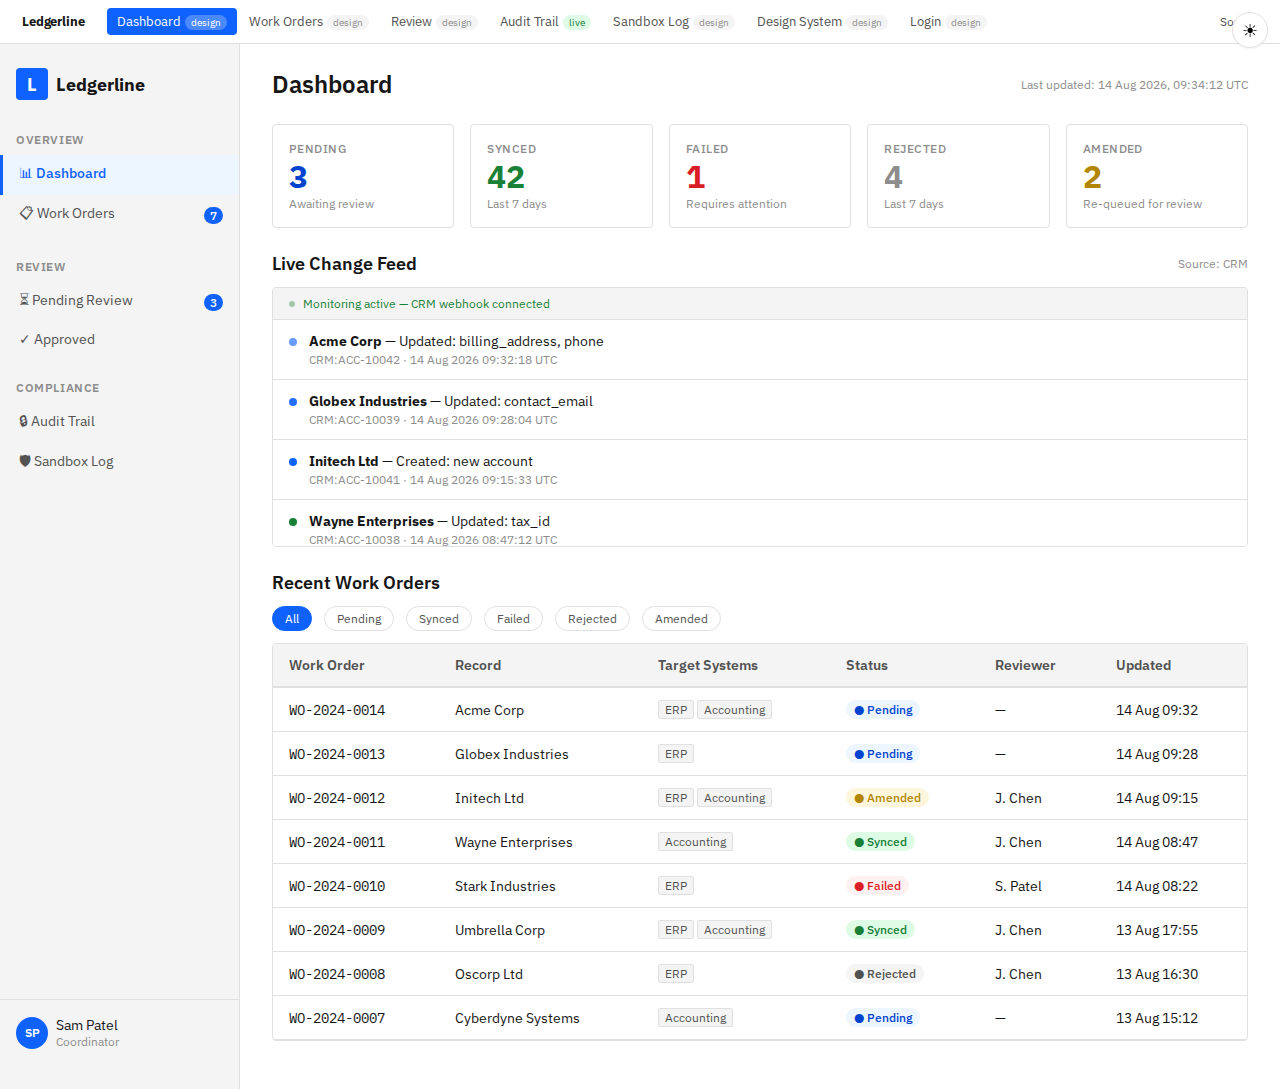
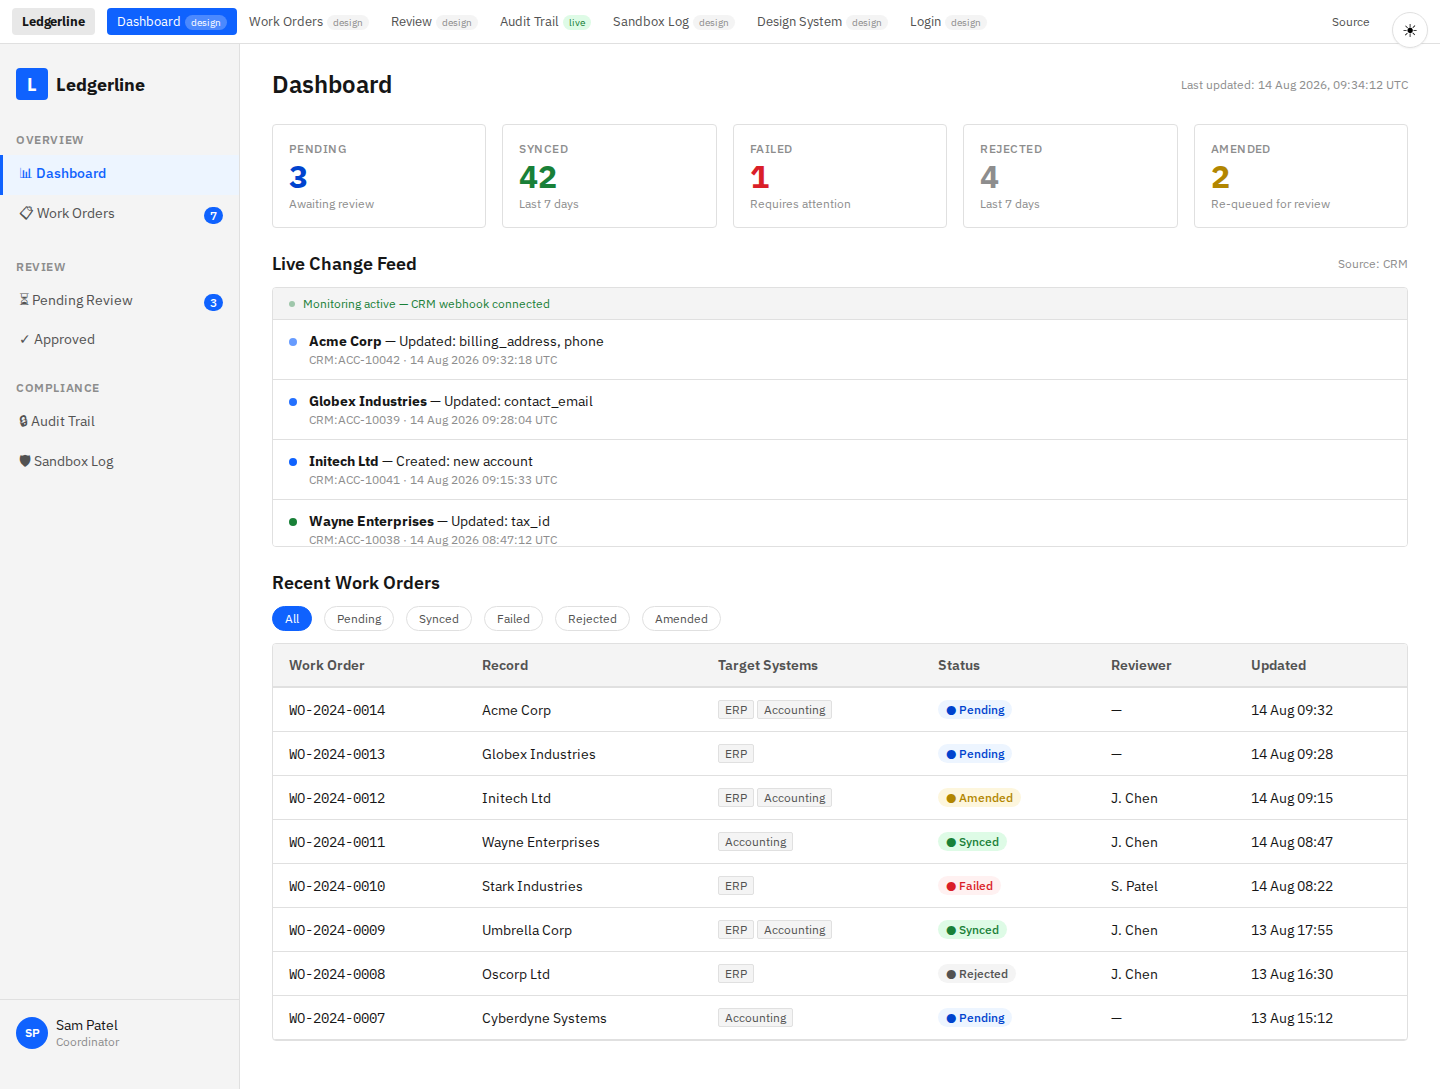
fix(ui): wire the sidebar too, not just the header strip (#7)
The header strip shipped wired; the dashboard's own AppLayout sidebar did not,
so its six items were inert. They are <button class="nav-item" data-page="…">,
not anchors, which is why the earlier href rewrite missed them entirely — they
need a click binding.

wire_ui.py now binds any .nav-item[data-page] it finds, marks the current page
active, and injects at end of body so the DOM it queries exists. Guarded by its
own marker pair, so re-runs replace rather than stack. Pending Review and
Approved both land on the work-orders list — they are that list filtered, which
the mockup cannot express.

Only dashboard.html carries a sidebar today; the binding is generic so a
regenerated screen with one is covered.

ui_e2e.py now checks both navigations at both viewports. This shipped broken
once, which is the argument for it being a test rather than a look.

25 browser checks green, 0 console errors, 0 failed requests.

diff --git a/ui/dashboard.html b/ui/dashboard.html
@@ -252,5 +252,27 @@ background:var(--color-surface,#f4f4f4);color:var(--color-text-muted,#8d8d8d)}
   });
 })();
 </script>
-</body>
+<!-- ledgerline:sidebar -->
+<script>
+(function(){
+  var MAP = {
+    dashboard: 'dashboard.html',
+    workorders: 'work-orders-list.html',
+    pending: 'work-orders-list.html',
+    approved: 'work-orders-list.html',
+    audit: 'audit-trail.html',
+    sandbox: 'sandbox-execution-log.html'
+  };
+  var here = location.pathname.split('/').pop();
+  if (!here || here === 'index.html') here = 'dashboard.html';
+  Array.prototype.forEach.call(document.querySelectorAll('.nav-item[data-page]'), function(btn){
+    var target = MAP[btn.getAttribute('data-page')];
+    if (!target) return;
+    btn.style.cursor = 'pointer';
+    if (target === here) btn.classList.add('active');
+    btn.addEventListener('click', function(){ location.href = target; });
+  });
+})();
+</script>
+<!-- /ledgerline:sidebar --></body>
 </html>

diff --git a/scripts/wire_ui.py b/scripts/wire_ui.py
@@ -20,6 +20,8 @@ UI = ROOT / "ui"
 
 MARK_OPEN = "<!-- ledgerline:nav -->"
 MARK_CLOSE = "<!-- /ledgerline:nav -->"
+SB_OPEN = "<!-- ledgerline:sidebar -->"
+SB_CLOSE = "<!-- /ledgerline:sidebar -->"
 
 # Order is the reviewer's path through the product, not alphabetical.
 NAV = [
@@ -38,6 +40,35 @@ BREADCRUMBS = {
     ">Work Orders<": "work-orders-list.html",
     ">Audit Trail<": "audit-trail.html",
 }
+
+# The AppLayout sidebar is <button class="nav-item" data-page="…">, not anchors, so it
+# needs a click binding rather than an href rewrite. Only dashboard.html carries one
+# today; this runs wherever the pattern appears, so a regenerated screen with a sidebar
+# gets wired too. "Pending Review" and "Approved" are the same list filtered, which the
+# list mockup cannot express — both land on the list.
+SIDEBAR_SCRIPT = """
+<script>
+(function(){
+  var MAP = {
+    dashboard: 'dashboard.html',
+    workorders: 'work-orders-list.html',
+    pending: 'work-orders-list.html',
+    approved: 'work-orders-list.html',
+    audit: 'audit-trail.html',
+    sandbox: 'sandbox-execution-log.html'
+  };
+  var here = location.pathname.split('/').pop();
+  if (!here || here === 'index.html') here = 'dashboard.html';
+  Array.prototype.forEach.call(document.querySelectorAll('.nav-item[data-page]'), function(btn){
+    var target = MAP[btn.getAttribute('data-page')];
+    if (!target) return;
+    btn.style.cursor = 'pointer';
+    if (target === here) btn.classList.add('active');
+    btn.addEventListener('click', function(){ location.href = target; });
+  });
+})();
+</script>
+"""
 
 CSS = """
 <style>
@@ -83,9 +114,10 @@ def nav_html(current: str) -> str:
 def wire(path: pathlib.Path) -> str:
     html = path.read_text()
 
-    # Drop a previously injected strip so re-runs replace rather than stack.
-    html = re.sub(re.escape(MARK_OPEN) + ".*?" + re.escape(MARK_CLOSE), "", html,
-                  flags=re.DOTALL)
+    # Drop previously injected blocks so re-runs replace rather than stack.
+    for open_, close in ((MARK_OPEN, MARK_CLOSE), (SB_OPEN, SB_CLOSE)):
+        html = re.sub(re.escape(open_) + ".*?" + re.escape(close), "", html,
+                      flags=re.DOTALL)
 
     strip = nav_html(path.name)
     if "<body" in html:
@@ -97,6 +129,10 @@ def wire(path: pathlib.Path) -> str:
     for needle, target in BREADCRUMBS.items():
         html = html.replace(f'<a href="#"{needle}', f'<a href="{target}"{needle}')
         html = html.replace(f'href="#"{needle}', f'href="{target}"{needle}')
+
+    # Bind the sidebar last, at end of body, so the DOM it queries already exists.
+    if 'class="nav-item' in html and "</body>" in html:
+        html = html.replace("</body>", SB_OPEN + SIDEBAR_SCRIPT + SB_CLOSE + "</body>", 1)
     return html
 
 

diff --git a/scripts/ui_e2e.py b/scripts/ui_e2e.py
@@ -91,6 +91,23 @@ def main() -> None:
             page.screenshot(path=str(SHOTS / f"audit-trail-{label}.png"), full_page=True)
             print(f"        screenshot -> docs/screenshots/audit-trail-{label}.png")
 
+            # Navigation: the Forge mockups ship standalone, with href="#" links and
+            # a sidebar of <button data-page>. Both are wired by scripts/wire_ui.py,
+            # and both have already been shipped broken once — so check them.
+            page.goto(f"{BASE}/ui/dashboard.html", wait_until="networkidle")
+            header = page.locator(".ll-nav a.ll-item").count()
+            check(f"{label} · header strip links every screen", header == 7, f"{header} links")
+
+            sidebar = page.locator(".nav-item[data-page]").count()
+            check(f"{label} · sidebar present", sidebar == 6, f"{sidebar} items")
+            page.click(".nav-item[data-page=audit]")
+            page.wait_for_load_state("networkidle")
+            check(f"{label} · sidebar navigates", "audit-trail.html" in page.url,
+                  page.url.split("/")[-1])
+            page.click(".ll-nav a[href='dashboard.html']")
+            page.wait_for_load_state("networkidle")
+            check(f"{label} · header navigates back", "dashboard.html" in page.url)
+
             check(f"{label} · no failed network requests", not failed_requests,
                   "; ".join(failed_requests[:2]))
             ctx.close()
